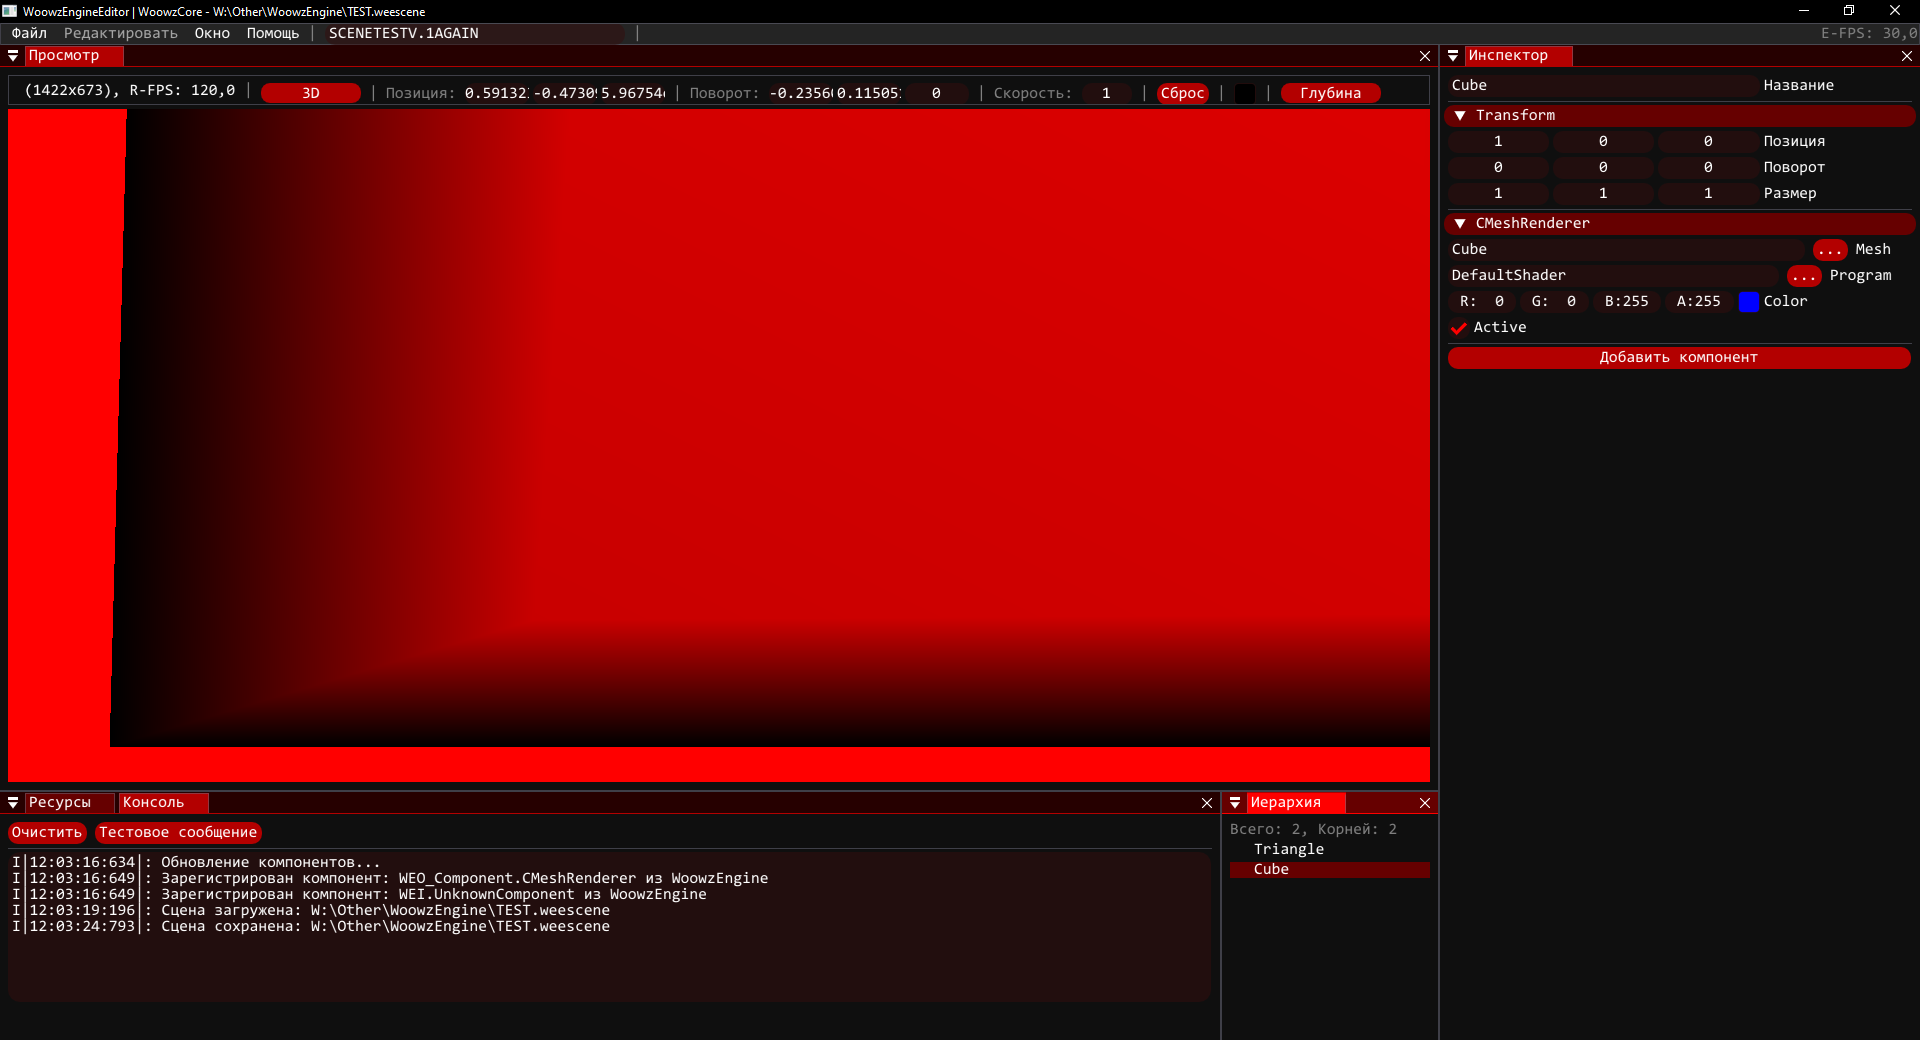
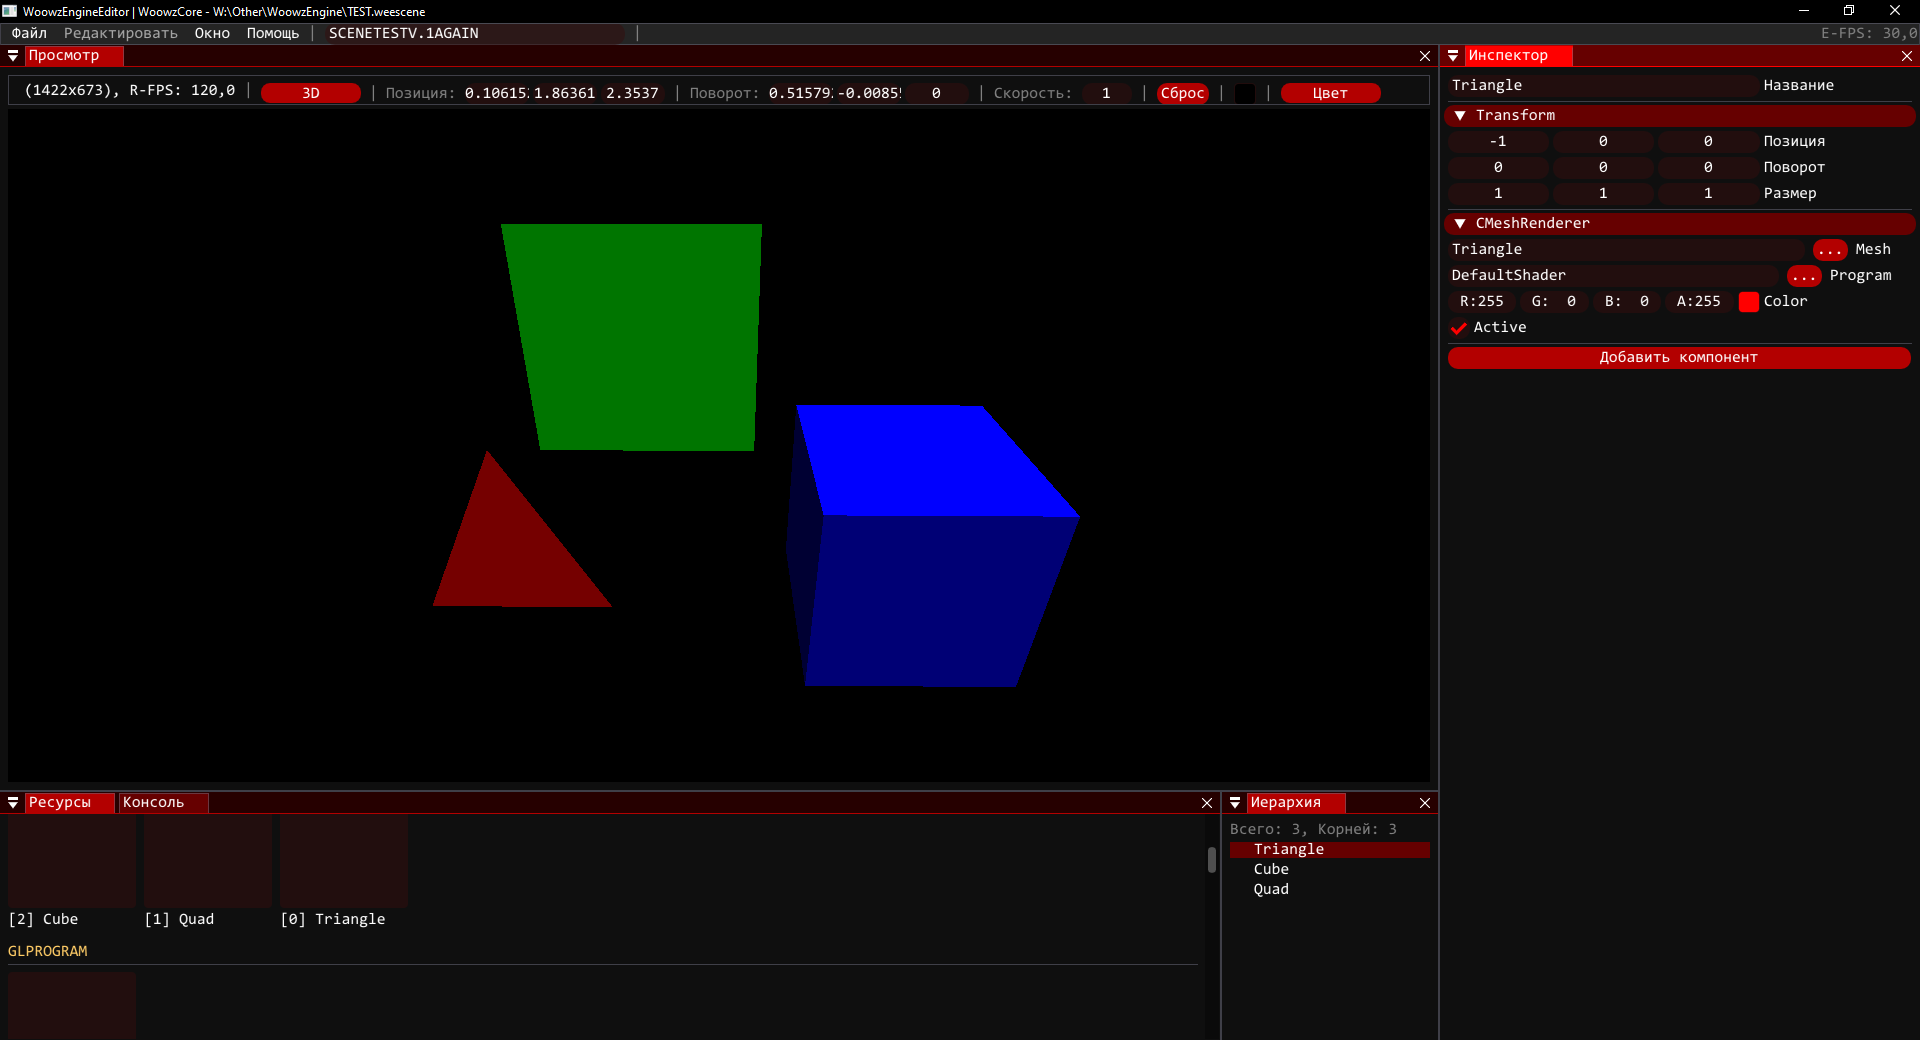
Используется генерация геометрии + улучшенный шейдер

diff --git a/WoowzEngine/WoowzEngineEditor/WEE/Render.cs b/WoowzEngine/WoowzEngineEditor/WEE/Render.cs
@@ -1,13 +1,11 @@
 using WEE_Interface;
 using WEEO;
-using WEO_Component;
-using WEO;
 using WLI_Render;
 using WLI.GPU;
+using WLO;
 using WLO.GPU;
 using WLO.Math;
 using WLO.Render;
-using WoowzLib.Render.WLO;
 
 namespace WEE;
 
@@ -85,99 +83,78 @@ public static class Render{
     
     // ----------------------------------------------------------------------
     // TODO, TEST RENDER
-    
-    public static GLProgram __PROGRAM;
-    public static GLMesh    __MESH_TRIANGLE;
-    public static GLMesh    __MESH_CUBE;
 
     private static int __UNIFORM_VPROJ;
     private static int __UNIFORM_MPROJ;
     private static int __UNIFORM_COLOR;
     
     public static void __STARTTESTRENDER(){
-        __PROGRAM = (GLProgram)WE.Render.API.CreateProgram(
+        GLProgram __PROGRAM = (GLProgram)WE.Render.API.CreateProgram(
             // language=GLSL
             WE.Render.API.CreateShader(Shader.Type.Vertex, @"
 #version 330 core
-layout (location = 0) in vec3 aPos;
-layout (location = 1) in vec4 aColor;
+layout (location = 0) in vec3 aPosition;
+layout (location = 1) in vec3 aNormal;
+layout (location = 2) in vec3 aUV;
+layout (location = 3) in vec4 aColor;
+layout (location = 4) in uint aID;
 
 uniform mat4 uViewProjection;
 uniform mat4 uModelProjection;
 
-out vec4 vColor;
+out vec3 vNormal;
 
 void main() {
-    gl_Position = uViewProjection * uModelProjection * vec4(aPos, 1.0);
-    vColor = aColor;
+    gl_Position = uViewProjection * uModelProjection * vec4(aPosition, 1.0);
+    vNormal = mat3(uModelProjection) * aNormal;
 }"),
             // language=GLSL
             WE.Render.API.CreateShader(Shader.Type.Fragment, @"
 #version 330 core
-in vec4 vColor;
-out vec4 FragColor;
+in vec3 vNormal;
+out vec4 fColor;
 
 uniform vec3 uColor;
 
 void main() {
-    FragColor = vec4(uColor.rgb, vColor.a);
+    vec3 LightDirection = normalize(vec3(0.5, 1, 0.3));
+    vec3 Norm = normalize(vNormal);
+    float Diff = max(dot(Norm, LightDirection), 0);
+    float Ambient = 0.2;
+    float Light = Ambient + Diff;
+    fColor = vec4(uColor * Light, 1);
 }")
         );
 
         __UNIFORM_VPROJ = __PROGRAM.GetUniform("uViewProjection");
         __UNIFORM_MPROJ = __PROGRAM.GetUniform("uModelProjection");
         __UNIFORM_COLOR = __PROGRAM.GetUniform("uColor");
-        
-        __MESH_TRIANGLE = (GLMesh)WE.Render.API.CreateMesh(
-            new VertexLayout(
-                new VertexAttribute("aPos", 3, VertexAttribute.AttributeType.Float),
-                new VertexAttribute("aColor", 4, VertexAttribute.AttributeType.Byte, true)    
-            ), [
-                new Vertex(new Vector2F(-0.5f, -0.5f), new Color4B(255, 255, 255, 255)),
-                new Vertex(new Vector2F(0.5f, -0.5f), new Color4B(255, 255, 255, 255)),
-                new Vertex(new Vector2F(0.0f, 0.5f), new Color4B(255, 255, 255, 255))
-            ]
+
+        VertexLayout VL = new VertexLayout(
+            new VertexAttribute("aPosition", 3, VertexAttribute.AttributeType.Float),
+            new VertexAttribute("aNormal", 3, VertexAttribute.AttributeType.Float),
+            new VertexAttribute("aUV", 2, VertexAttribute.AttributeType.Float),
+            new VertexAttribute("aColor", 4, VertexAttribute.AttributeType.UByte, true),
+            new VertexAttribute("aID", 1, VertexAttribute.AttributeType.UInt)
         );
-
-        Vertex[] GetCubeVertices(){
-            Color4B w = new Color4B(255, 255, 255, 255);
-            float s = 0.5f; // Половина размера (от -0.5 до 0.5)
-
-            return [
-                // Front face (Z+)
-                new Vertex(new Vector3F(-s, -s,  s), w), new Vertex(new Vector3F( s, -s,  s), w), new Vertex(new Vector3F( s,  s,  s), w),
-                new Vertex(new Vector3F( s,  s,  s), w), new Vertex(new Vector3F(-s,  s,  s), w), new Vertex(new Vector3F(-s, -s,  s), w),
-
-                // Back face (Z-)
-                new Vertex(new Vector3F(-s, -s, -s), w), new Vertex(new Vector3F(-s,  s, -s), w), new Vertex(new Vector3F( s,  s, -s), w),
-                new Vertex(new Vector3F( s,  s, -s), w), new Vertex(new Vector3F( s, -s, -s), w), new Vertex(new Vector3F(-s, -s, -s), w),
-
-                // Left face (X-)
-                new Vertex(new Vector3F(-s,  s,  s), w), new Vertex(new Vector3F(-s,  s, -s), w), new Vertex(new Vector3F(-s, -s, -s), w),
-                new Vertex(new Vector3F(-s, -s, -s), w), new Vertex(new Vector3F(-s, -s,  s), w), new Vertex(new Vector3F(-s,  s,  s), w),
-
-                // Right face (X+)
-                new Vertex(new Vector3F( s,  s,  s), w), new Vertex(new Vector3F( s, -s,  s), w), new Vertex(new Vector3F( s, -s, -s), w),
-                new Vertex(new Vector3F( s, -s, -s), w), new Vertex(new Vector3F( s,  s, -s), w), new Vertex(new Vector3F( s,  s,  s), w),
-
-                // Top face (Y+)
-                new Vertex(new Vector3F(-s,  s, -s), w), new Vertex(new Vector3F(-s,  s,  s), w), new Vertex(new Vector3F( s,  s,  s), w),
-                new Vertex(new Vector3F( s,  s,  s), w), new Vertex(new Vector3F( s,  s, -s), w), new Vertex(new Vector3F(-s,  s, -s), w),
-
-                // Bottom face (Y-)
-                new Vertex(new Vector3F(-s, -s, -s), w), new Vertex(new Vector3F( s, -s, -s), w), new Vertex(new Vector3F( s, -s,  s), w),
-                new Vertex(new Vector3F( s, -s,  s), w), new Vertex(new Vector3F(-s, -s,  s), w), new Vertex(new Vector3F(-s, -s, -s), w)
-            ];
-        }
         
-        __MESH_CUBE = (GLMesh)WE.Render.API.CreateMesh(
-            new VertexLayout(
-                new VertexAttribute("aPos", 3, VertexAttribute.AttributeType.Float),
-                new VertexAttribute("aColor", 4, VertexAttribute.AttributeType.Byte, true)
-            ), GetCubeVertices()
+        GeometryData TRIANGLE = WL.Geometry.CreateTriangle();
+        GLMesh __MESH_TRIANGLE = (GLMesh)WE.Render.API.CreateMesh(
+            VL, TRIANGLE.Vertices.ToArray(), TRIANGLE.Indices.ToArray()
+        );
+        
+        GeometryData QUAD = WL.Geometry.CreateQuad();
+        GLMesh __MESH_QUAD = (GLMesh)WE.Render.API.CreateMesh(
+            VL, QUAD.Vertices.ToArray(), QUAD.Indices.ToArray()
+        );
+        
+        GeometryData CUBE = WL.Geometry.CreateCube();
+        GLMesh __MESH_CUBE = (GLMesh)WE.Render.API.CreateMesh(
+            VL, CUBE.Vertices.ToArray(), CUBE.Indices.ToArray()
         );
 
         WE.Asset.Register("Triangle", () => __MESH_TRIANGLE);
+        WE.Asset.Register("Quad", () => __MESH_QUAD);
         WE.Asset.Register("Cube", () => __MESH_CUBE);
         WE.Asset.Register("DefaultShader", () => __PROGRAM);
     }

diff --git a/WoowzEngine/WoowzEngineEditor/WEE/Interface/I_Inspector.cs b/WoowzEngine/WoowzEngineEditor/WEE/Interface/I_Inspector.cs
@@ -33,10 +33,21 @@ public static class I_Inspector{
                             WEE.Interface.CurrentEntity.SetTransformDirty();
                         }
 
-                        Vector3 Rotation = new Vector3(WEE.Interface.CurrentEntity.Transform.Rotation.X, WEE.Interface.CurrentEntity.Transform.Rotation.Y, WEE.Interface.CurrentEntity.Transform.Rotation.Z);
-
+                        const float RadToDeg = 180f / System.MathF.PI;
+                        const float DegToRad = System.MathF.PI / 180;
+                        
+                        Vector3 Rotation = new Vector3(
+                            WEE.Interface.CurrentEntity.Transform.Rotation.X * RadToDeg,
+                            WEE.Interface.CurrentEntity.Transform.Rotation.Y * RadToDeg,
+                            WEE.Interface.CurrentEntity.Transform.Rotation.Z * RadToDeg
+                        );
+                        
                         if(ImGui.DragFloat3("Поворот", ref Rotation, 0.1f, 0, 0, "%g")){
-                            WEE.Interface.CurrentEntity.Transform.Rotation = new Vector3F(Rotation.X, Rotation.Y, Rotation.Z);
+                            WEE.Interface.CurrentEntity.Transform.Rotation = new Vector3F(
+                                Rotation.X * DegToRad,
+                                Rotation.Y * DegToRad,
+                                Rotation.Z * DegToRad
+                            );
                             WEE.Interface.CurrentEntity.SetTransformDirty();
                         }
                         

diff --git a/WoowzEngine/WoowzEngineEditor/WEE/Interface/I_View.cs b/WoowzEngine/WoowzEngineEditor/WEE/Interface/I_View.cs
@@ -84,7 +84,7 @@ public static class I_View{
                     WEE.Editor.ViewCamera.Position = WEE.Editor.ViewCamera.Rotation = new Vector3F();
                     WEE.Editor.CameraSpeed = 1;
                 }
-                if(ImGui.IsItemHovered()){ ImGui.SetTooltip("Сбросить позицию и поворот камеры на дефолтные значения"); }
+                if(ImGui.IsItemHovered()){ ImGui.SetTooltip("Сбросить настройки камеры на дефолтные значения"); }
 
                 ImGui.SameLine();
                 ImGui.TextDisabled("|");

diff --git a/WoowzEngine/WoowzEngine/WE/Asset.cs b/WoowzEngine/WoowzEngine/WE/Asset.cs
@@ -1,4 +1,5 @@
 using WEO;
+using WLI.GPU;
 
 namespace WE;
 
